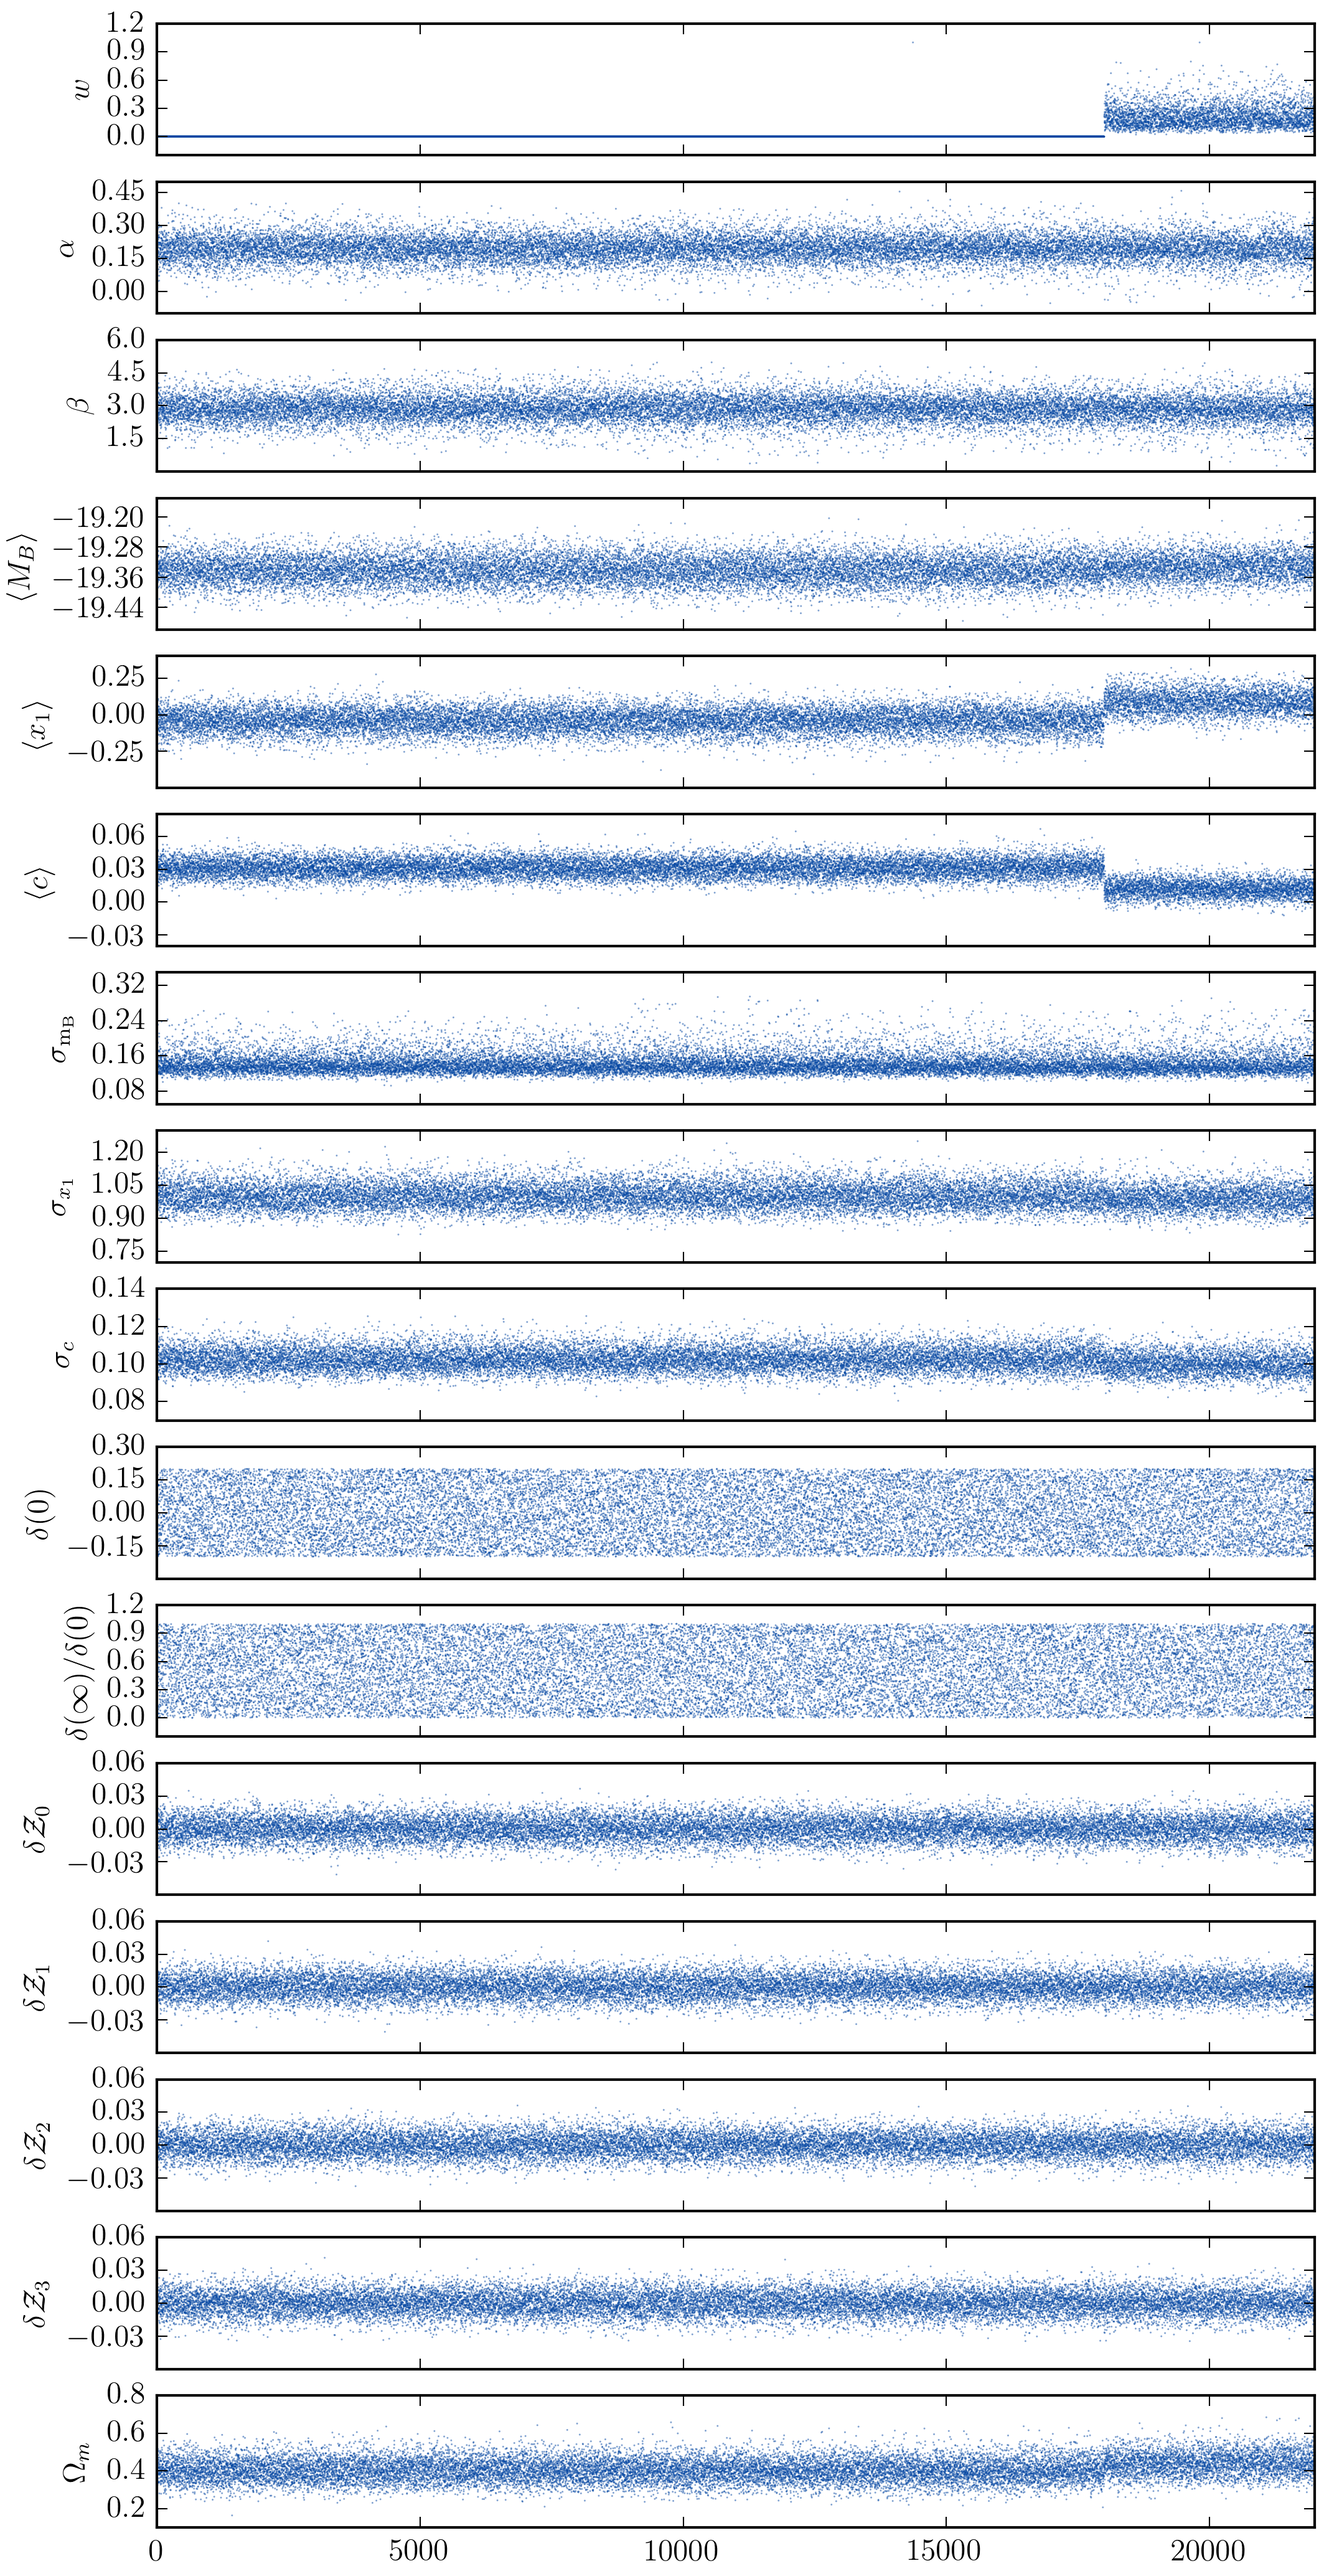
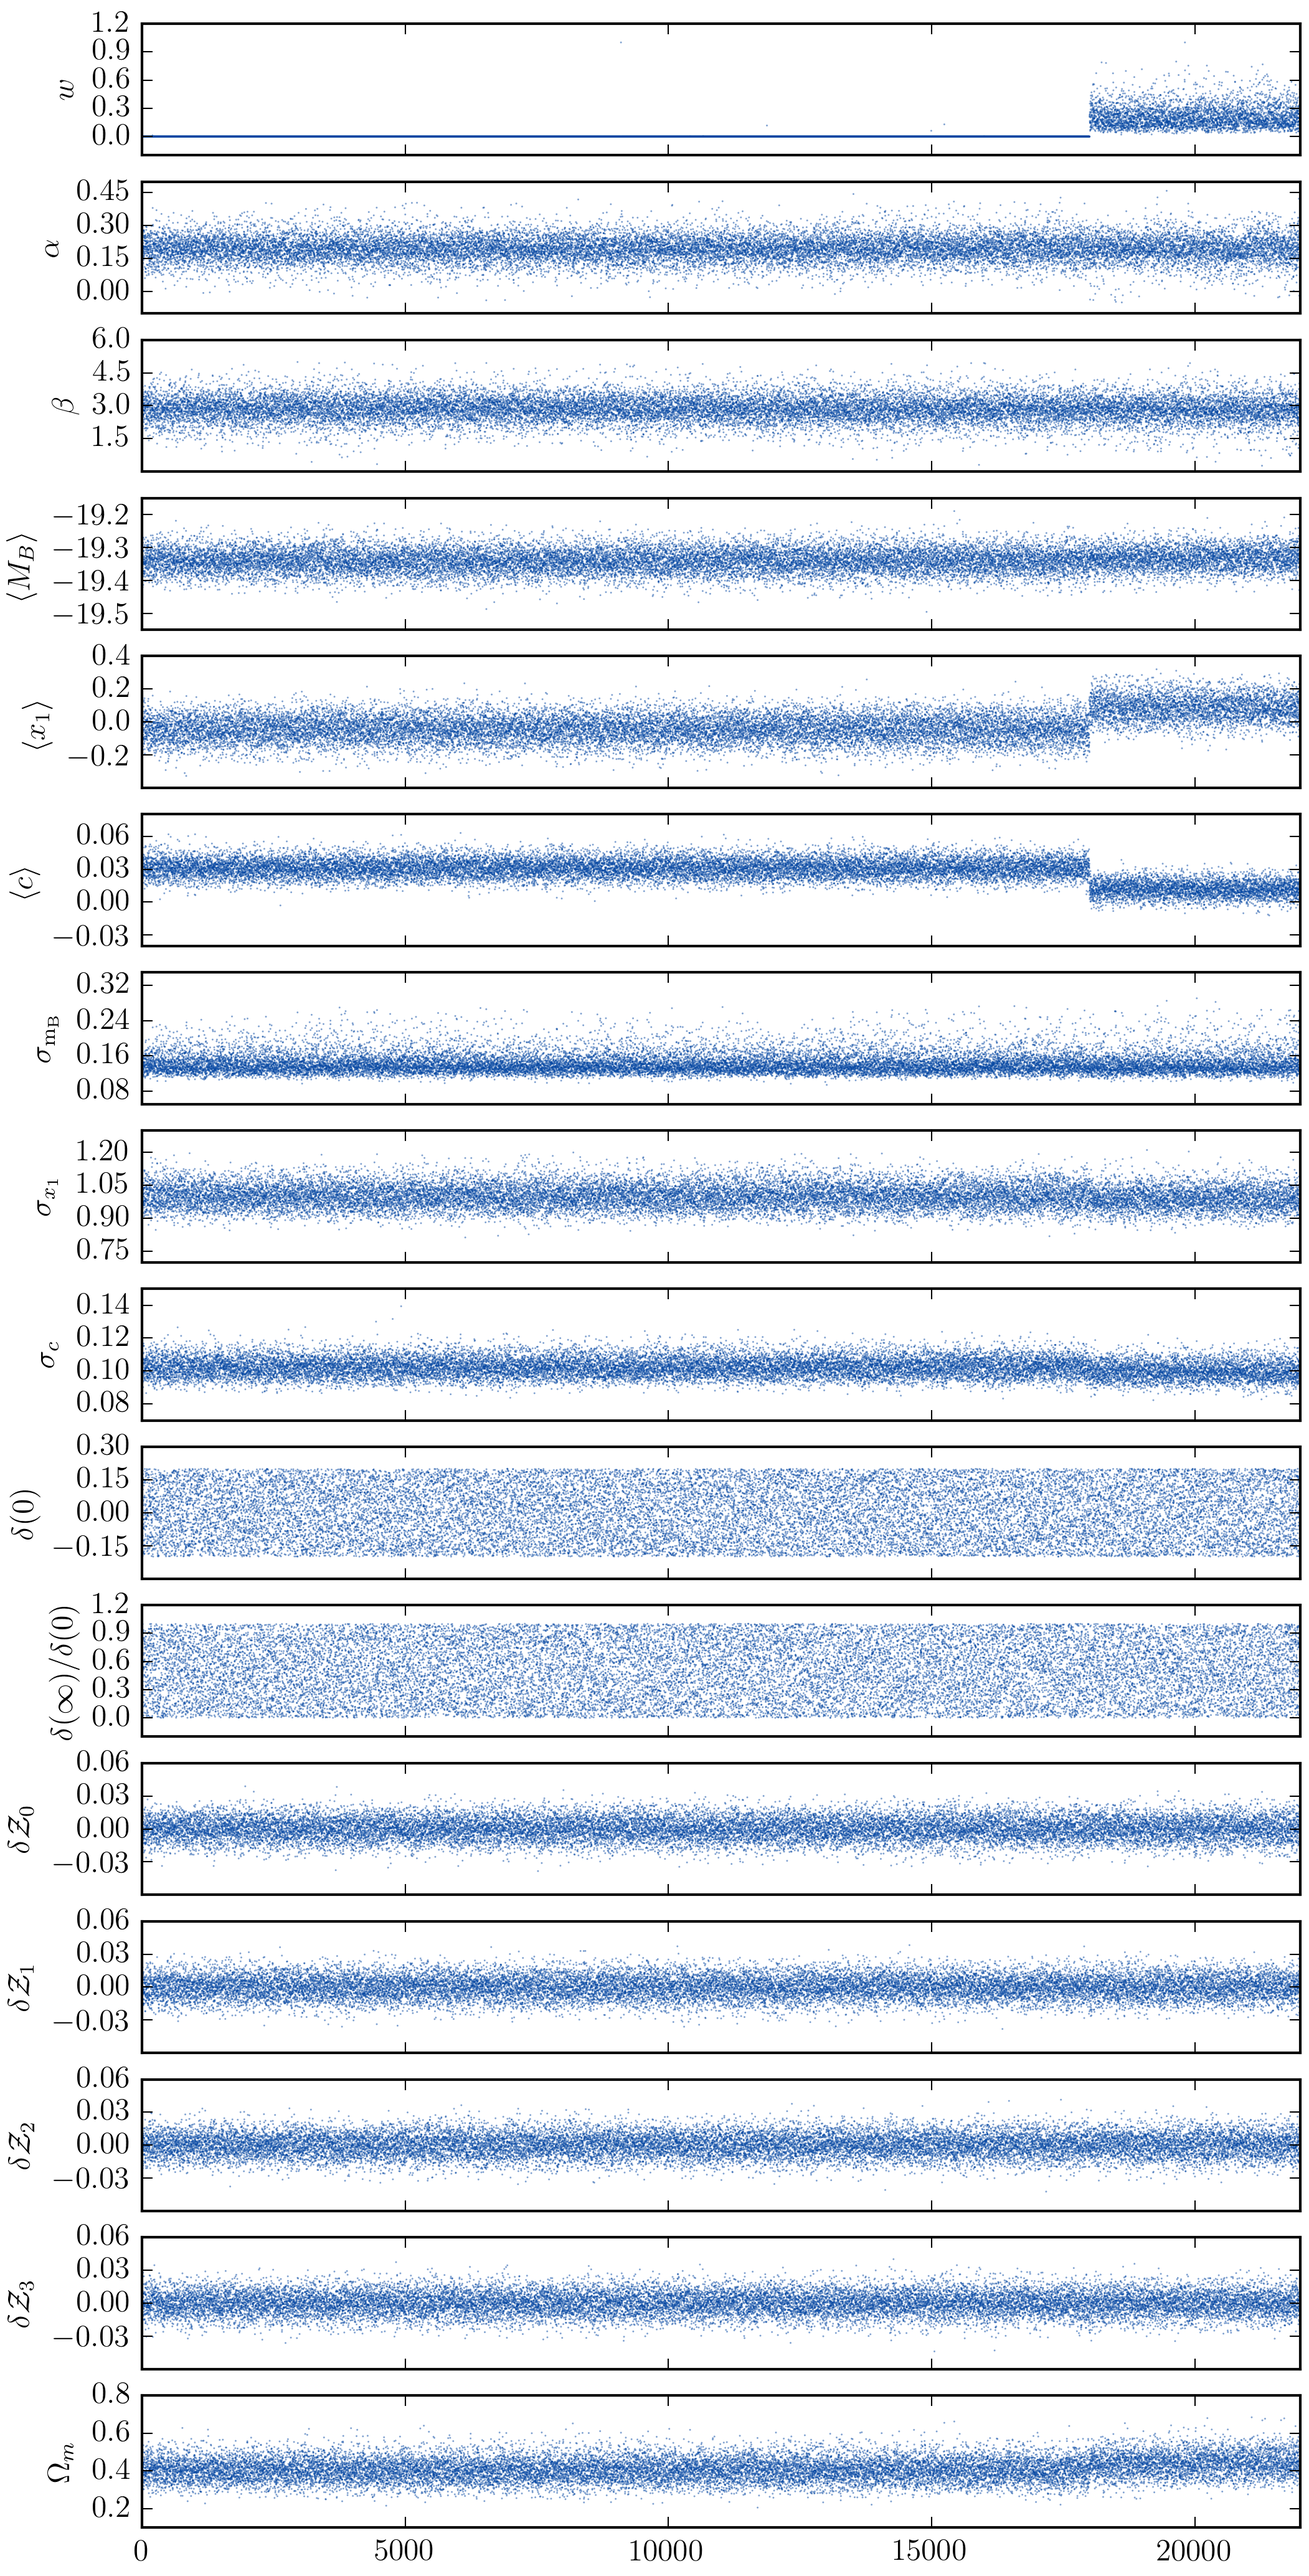
snana update

diff --git a/dessn/models/d_simple_stan/snana/load.py b/dessn/models/d_simple_stan/snana/load.py
@@ -17,13 +17,11 @@ def debug_plots(std):
     # plt.show()
     # exit()
     c = ChainConsumer()
-    c.add_chain(chain, weights=w, name="calib")
+    c.add_chain(chain, name="uncorrected")
+    c.add_chain(chain, weights=w, name="corrected")
     # c.add_chain(chain, name="calib")
-    c.plot(filename="outputCor.png", parameters=9, figsize=1.3)
-    c.plot_walks(filename="walks.png")
-    c = ChainConsumer()
-    c.add_chain(chain,  name="calib")
     c.plot(filename="output.png", parameters=9, figsize=1.3)
+    c.plot_walks(chain=1, filename="walks.png")
     # c.add_chain(chain, name="approx")
     # c.add_chain(chain, weights=w, name="full")
     # c.plot(filename="output.png", truth=t)

diff --git a/dessn/models/d_simple_stan/snana/run.py b/dessn/models/d_simple_stan/snana/run.py
@@ -31,6 +31,7 @@ def calculate_bias(chain_dictionary, supernovae, cosmologies, return_mbs=False):
         dratio = chain_dictionary["dratio"][i]
         redshift_pre_comp = 0.9 + np.power(10, 0.95 * redshifts)
         mass_correction = dscale * (1.9 * (1 - dratio) / redshift_pre_comp + dratio)
+        mass_correction = 0
         mabs = apparents - mus + chain_dictionary["alpha"][i] * stretches - chain_dictionary["beta"][i] * colours + mass_correction * masses
 
         mbx1cs = np.vstack((mabs, stretches, colours)).T
